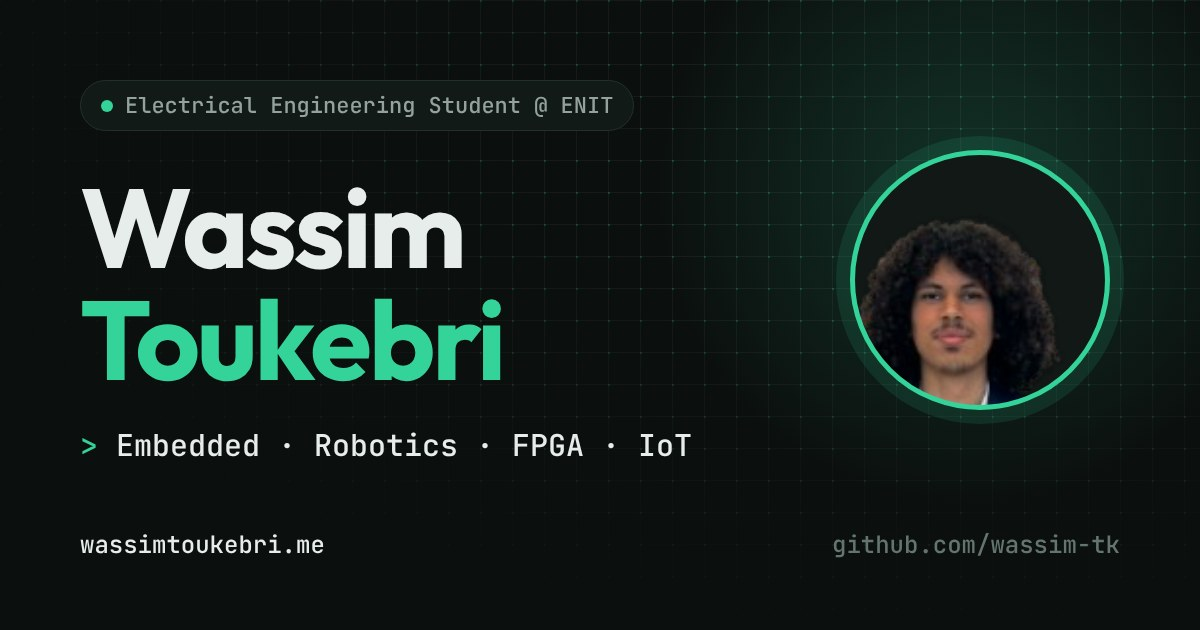
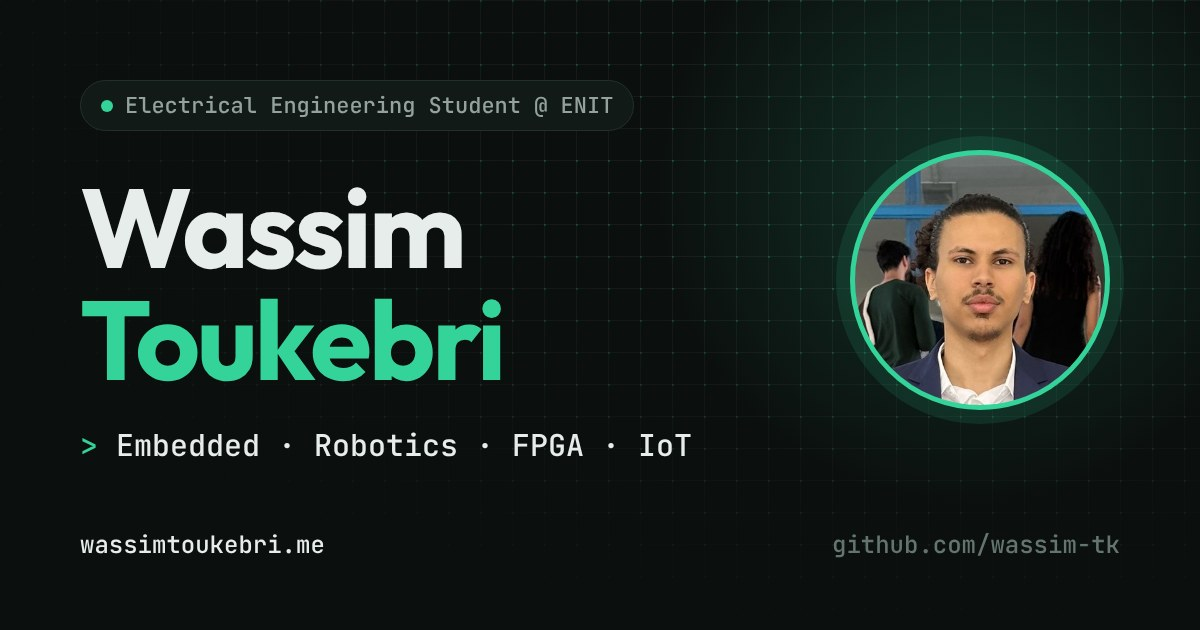
Replace profile photo with new high-resolution portrait
- New portrait crop for the About section and avatar crop for the hero
- Regenerate social preview image; structured data points to the new photo
- Remove the old low-resolution wass.PNG

Claude-Session: https://claude.ai/code/session_013Kb2RdFhQwEEckc3CHtHNP

Changed region(s): [[0.7092, 0.2413, 0.925, 0.6635]]

diff --git a/index.html b/index.html
@@ -39,7 +39,7 @@
                 "@id": "https://wassimtoukebri.me/#person",
                 "name": "Wassim Toukebri",
                 "url": "https://wassimtoukebri.me/",
-                "image": "https://wassimtoukebri.me/wass.PNG",
+                "image": "https://wassimtoukebri.me/images/portrait.jpg",
                 "jobTitle": "Electrical Engineering Student",
                 "description": "Electrical Engineering student at ENIT specializing in embedded systems, robotics, FPGA and IoT.",
                 "affiliation": {
@@ -91,7 +91,7 @@
     <link
         href="https://fonts.googleapis.com/css2?family=JetBrains+Mono:wght@400;500;600&family=Outfit:wght@400;500;600;700&display=swap"
         rel="stylesheet">
-    <link rel="stylesheet" href="styles.css?v=11">
+    <link rel="stylesheet" href="styles.css?v=12">
 </head>
 
 <body>
@@ -221,8 +221,7 @@
                 <div class="about-grid">
                     <figure class="portrait reveal">
                         <div class="portrait-frame">
-                            <!-- For a sharper result, replace wass.PNG with a portrait photo of at least 800×1000 px -->
-                            <img src="wass.PNG" alt="Portrait of Wassim Toukebri" width="432" height="239" loading="lazy">
+                            <img src="images/portrait.jpg" alt="Portrait of Wassim Toukebri in a navy suit" width="1000" height="1250" loading="lazy">
                             <span class="corner tl" aria-hidden="true"></span>
                             <span class="corner tr" aria-hidden="true"></span>
                             <span class="corner bl" aria-hidden="true"></span>
@@ -673,8 +672,8 @@
         </div>
     </footer>
 
-    <script src="script.js?v=11"></script>
-    <script src="balance.js?v=11"></script>
+    <script src="script.js?v=12"></script>
+    <script src="balance.js?v=12"></script>
 </body>
 
 </html>

diff --git a/styles.css b/styles.css
@@ -562,9 +562,7 @@ ol {
     border-radius: 50%;
     border: 2px solid var(--accent);
     box-shadow: 0 0 0 4px var(--accent-soft);
-    background: var(--bg-elev) url("wass.PNG") no-repeat;
-    background-size: 182px auto;
-    background-position: -63px -2px;
+    background: var(--bg-elev) url("images/avatar.jpg") center / cover no-repeat;
 }
 
 /* Interactive balancing-robot lab */
@@ -874,7 +872,7 @@ ol {
     width: 100%;
     height: 100%;
     object-fit: cover;
-    object-position: 50% 30%;
+    object-position: 50% 20%;
     border-radius: calc(var(--radius) - 5px);
 }
 
